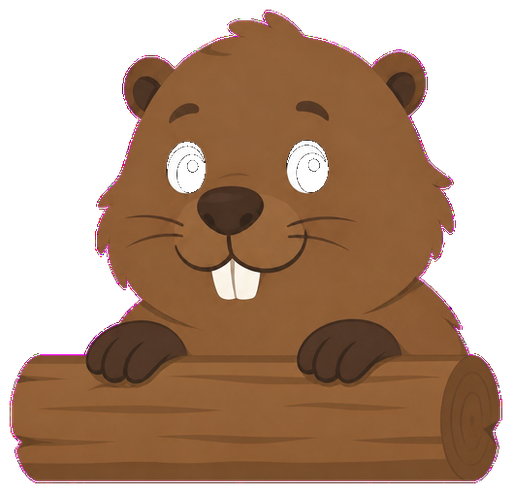
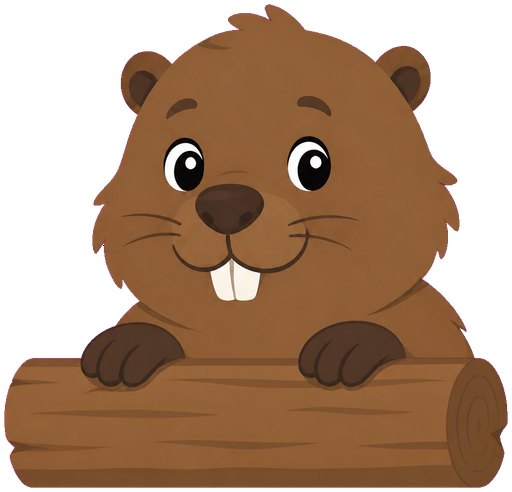
Fix SoftStop beaver cutout: black-only chroma, solid eyes, no magenta.
Rebuild default icons from the locked black-bg master via edge flood-fill so pupils stay filled, scrub magenta fringe on pose assets, and cache-bust demo refs.

diff --git a/demo/index.html b/demo/index.html
@@ -5,7 +5,7 @@
     <meta name="viewport" content="width=device-width, initial-scale=1.0">
     <title>SoftStop — Makes software stop when it should</title>
     <meta name="description" content="SoftStop is the shared per-customer pressure journal. Every system check/records into one permit — urgency, discount, interruption, reminder — so no channel is blind.">
-    <link rel="icon" href="assets/softstop-icon.png?v=beaver11" type="image/png" />
+    <link rel="icon" href="assets/softstop-icon.png?v=beaver13" type="image/png" />
     <meta property="og:title" content="SoftStop" />
     <meta property="og:description" content="Doesn't make software smarter. Makes it stop when it should." />
     <meta property="og:image" content="assets/softstop-cover.png" />
@@ -2141,7 +2141,7 @@
 
     <header class="site-topbar">
         <a href="#" class="site-brand" aria-label="SoftStop home">
-            <img src="assets/softstop-icon.png?v=beaver11" alt="" width="22" height="22" />
+            <img src="assets/softstop-icon.png?v=beaver13" alt="" width="22" height="22" />
             <span>SoftStop</span>
         </a>
         <nav class="site-nav site-nav-desktop" aria-label="Main">
@@ -2257,7 +2257,7 @@
     <main class="page">
         <header class="hero">
             <div class="hero-content">
-                <img class="hero-mark" src="assets/softstop-icon.png?v=beaver11" width="96" height="96" alt="" />
+                <img class="hero-mark" src="assets/softstop-icon.png?v=beaver13" width="96" height="96" alt="" />
                 <p class="hero-eyebrow">Open source · Shared pressure journal</p>
                 <div class="hero-rotator" aria-live="polite">
                     <h1 class="title" id="heroTitle">One journal.<br /><em>Every</em> system asks it.</h1>
@@ -2384,7 +2384,7 @@ if (!d.allowed) {
                                 <span class="wf-port out-allow ok" data-port="out-allow" aria-hidden="true"></span>
                                 <span class="wf-port out-block amber" data-port="out-block" aria-hidden="true"></span>
                                 <div class="wf-hub-head">
-                                    <div class="wf-hub-mark" aria-hidden="true"><img src="assets/beaver-journal.png?v=beaver12" alt="" width="176" height="176" /></div>
+                                    <div class="wf-hub-mark" aria-hidden="true"><img src="assets/beaver-journal.png?v=beaver13" alt="" width="176" height="176" /></div>
                                 </div>
                                 <div class="wf-hub-body" id="journalFeed">
                                     <div class="wf-hub-row" data-entry><span>email · urgency</span><span class="tag ok">allow</span></div>
@@ -2500,7 +2500,7 @@ if (!d.allowed) {
                                         <span class="wf-port out-allow ok" data-port="out-allow" aria-hidden="true"></span>
                                         <span class="wf-port out-block amber" data-port="out-block" aria-hidden="true"></span>
                                         <div class="wf-hub-head">
-                                            <div class="wf-hub-mark" aria-hidden="true"><img src="assets/beaver-check.png?v=beaver11" alt="" width="88" height="88" /></div>
+                                            <div class="wf-hub-mark" aria-hidden="true"><img src="assets/beaver-check.png?v=beaver13" alt="" width="88" height="88" /></div>
                                         </div>
                                     </div>
                                     <div class="wf-mobile-flow" aria-hidden="true">↓ permit ↓</div>
@@ -2722,7 +2722,7 @@ if (!d.allowed) {
                                             <span class="wf-port out-allow ok" data-port="out-allow" aria-hidden="true"></span>
                                             <span class="wf-port out-block amber" data-port="out-block" aria-hidden="true"></span>
                                             <div class="wf-hub-head">
-                                                <div class="wf-hub-mark" aria-hidden="true"><img src="assets/beaver-gate.png?v=beaver12" alt="" width="96" height="96" /></div>
+                                                <div class="wf-hub-mark" aria-hidden="true"><img src="assets/beaver-gate.png?v=beaver13" alt="" width="96" height="96" /></div>
                                             </div>
                                         </div>
                                         <div class="wf-mobile-flow" aria-hidden="true">↓ allow / block ↓</div>
@@ -2769,7 +2769,7 @@ if (!d.allowed) {
         <footer class="site-footer">
             <div class="footer-inner">
                 <div class="flex items-center gap-2">
-                    <img src="assets/softstop-icon.png?v=beaver11" width="18" height="18" alt="" />
+                    <img src="assets/softstop-icon.png?v=beaver13" width="18" height="18" alt="" />
                     <span>SoftStop — MIT</span>
                 </div>
                 <div class="footer-links">
